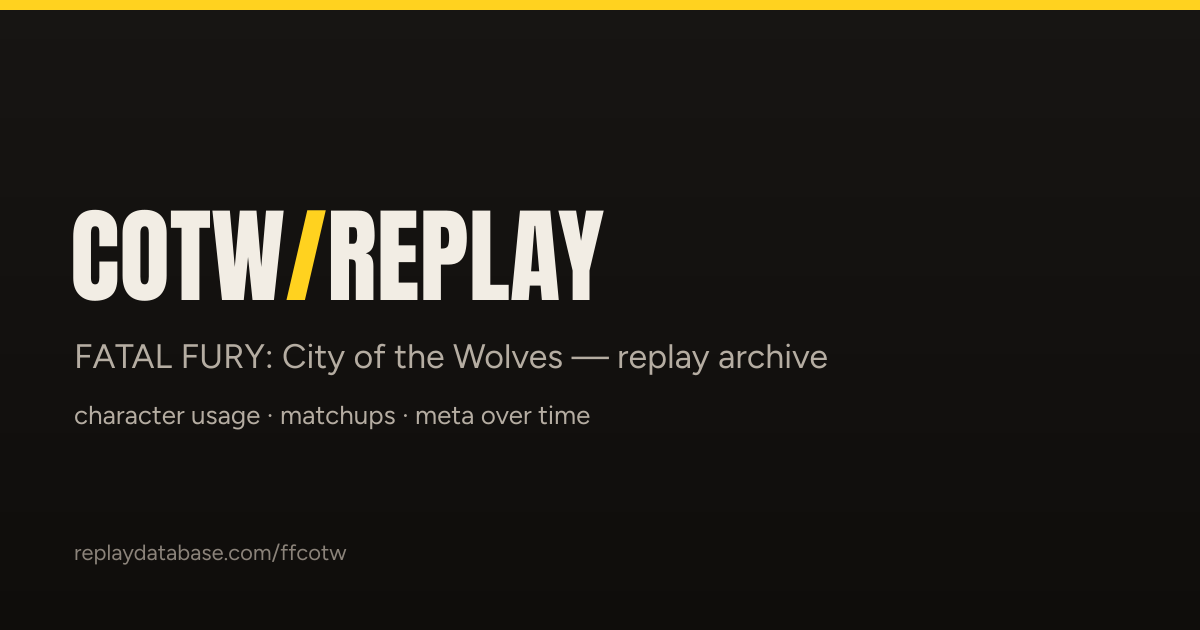
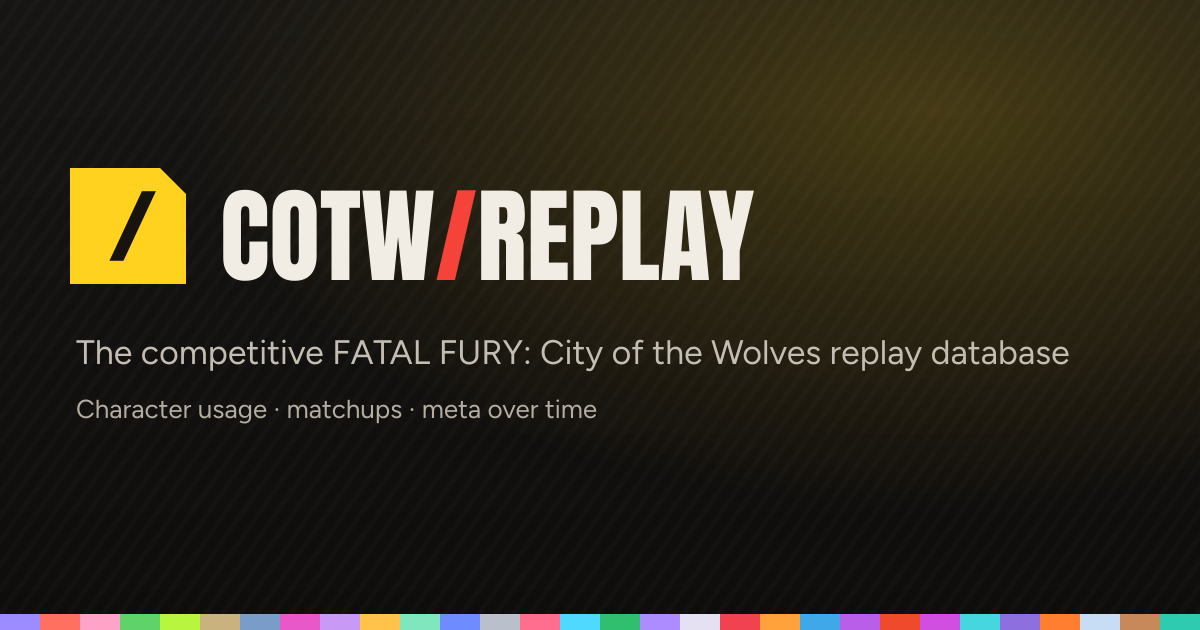
feat(art): the OG card speaks the platform's card language
The shell's selector cards are byte-copies of each game repo's og-default.png,
so this file is the front-door card as well as the social one and has to match
the set: a cut-corner badge in the primary carrying the platform slash, the
wordmark with its slash in the secondary, the two copy lines, and a footer
stripe that is THE ROSTER — one segment per fighter in that fighter's own
accent. That last part was read off the shipped cards rather than guessed:
Tōkon's stripe is 21 segments and SF6's is 30, matching their roster sizes.
Reading it from data/characters.json means the card tracks the roster instead
of going stale on the next DLC.

Rendering is now ONE PATH PER GLYPH, positioned by the font's own advance and
kern pairs, which was forced by two independent defects:

  · librsvg truncates a long d attribute mid-string, and the same path emitted
    at a non-zero x offset truncates EARLIER, at the same glyph regardless of
    coordinate precision. Neither is root-caused; both disappear when every
    path is short and starts at the origin.
  · opentype.js emits literal NaN coordinates, and NOT only for variable fonts.
    On the STATIC Figtree-Regular, 'P' and '2' each produce NaN alone, and
    'Character' produces NaN while 'C', 'Ch', 'City' and 'character' do not —
    so the fault is in multi-glyph LAYOUT, not in any one outline. Drawing
    glyphs individually removes the composition step the bug lives in.
[…]

diff --git a/scripts/og.ts b/scripts/og.ts
@@ -31,6 +31,21 @@
  * suit: it proves the outlines came from the real font (a known glyph advance
  * and a non-trivial path), so a corrupt or missing TTF still fails loudly.
  *
+ * ── IT IS ALSO THE SELECTOR CARD ──────────────────────────────────────────
+ * The shell's game cards are byte-copies of each game repo's own
+ * og-default.png (2XKO, Tekken and SF6 all are; Tōkon needed a bespoke
+ * generator only because it had no game repo at the time). So this file has to
+ * speak the platform's card language, not just be a valid image:
+ *
+ *   · a cut-corner badge in the game's PRIMARY, carrying the platform slash
+ *   · the wordmark, with the slash in the game's SECONDARY
+ *   · "The competitive <full name> replay database", then the tagline
+ *   · a footer stripe that is THE ROSTER: one segment per fighter, in roster
+ *     order, each in that fighter's own accent. Sampled from the shipped cards
+ *     to confirm — Tōkon's stripe is 21 segments and SF6's is 30, matching
+ *     their roster sizes exactly. Reading it from data/characters.json here
+ *     means the card tracks the roster instead of going stale on the next DLC.
+ *
  * Run: npm run data:og   (manual — the card changes when the brand does)
  */
 
@@ -50,102 +65,93 @@ const BG = '#0F0D0B';
 const SURFACE = '#171513';
 const PRIMARY = '#FFD21F';
 const TEXT = '#F2EDE4';
+const TEXT_DIM = '#C4BDB3';
 const MUTED = '#B5ADA2';
-const FAINT = '#8B837A';
+const SECONDARY = '#F5433A';
+const PRIMARY_CONTRAST = '#17130E';
 
-interface Chunk {
+interface Glyph {
+  /** SVG path data for ONE glyph, drawn at the origin. */
   path: string;
-  /** x offset of this chunk within the whole string, in px. */
+  /** x offset of this glyph within the string, in px. */
   dx: number;
-  /** advance width of this chunk alone, so its canvas can be cropped to it. */
-  w: number;
 }
 
 /**
- * Text → a SEQUENCE of SVG paths, each short, each drawn at the origin and
- * positioned by its measured advance.
+ * Text → ONE PATH PER GLYPH, each drawn at the origin and positioned by the
+ * font's own advance and kern pairs.
  *
- * TWO LIBRSVG LIMITS ARE BEING ROUTED AROUND HERE, and both were found by
- * looking at the rendered card rather than by any assertion on the data:
+ * THIS SHAPE IS FORCED BY TWO INDEPENDENT DEFECTS, both found by looking at the
+ * rendered card rather than by any assertion on the data:
  *
- *  · a long `d` attribute truncates mid-string. The 46-character subtitle
- *    (~14k chars of path data) renders in full; the 43-character stat line
- *    (~17k) stops after "character usage · ma".
- *  · the same path emitted at a non-zero x offset truncates EARLIER than at
- *    x=0, at the same glyph regardless of coordinate precision.
+ *  1. librsvg truncates a long `d` attribute mid-string. The 46-character
+ *     subtitle (~14k chars of path data) renders in full; the 43-character stat
+ *     line (~17k) stops after "character usage · ma". The same path emitted at
+ *     a non-zero x offset truncates EARLIER, at the same glyph regardless of
+ *     coordinate precision. Neither is root-caused; both disappear when every
+ *     path is short and starts at the origin.
  *
- * Neither is root-caused. Both disappear if every path is short and starts at
- * the origin, so that is what this does: split on spaces into chunks of at most
- * MAX_CHUNK_CHARS, draw each at (0, size), and place it with the compositor at
- * the advance width of everything before it. Advance widths come from the font,
- * so the spacing is the font's own metrics and not an approximation.
+ *  2. opentype.js emits literal `NaN` coordinates, and it is NOT only for
+ *     variable fonts. Measured on the STATIC Figtree-Regular: "P" and "2" each
+ *     produce NaN alone, and "Character" produces NaN while "C", "Ch", "City"
+ *     and "character" do not — so the fault is in multi-glyph LAYOUT, not in
+ *     any one outline. Drawing glyphs individually removes the composition step
+ *     the bug lives in.
  *
- * The failure this prevents is the one 5d is really about: a card that has
- * silently dropped half a line still looks like a deliberate design.
+ * Positioning uses getAdvanceWidth per glyph plus getKerningValue between
+ * pairs, so the spacing is the font's own metrics rather than an approximation.
+ * The NaN assertion stays and now runs per glyph, because a glyph that still
+ * fails must stop the build rather than render as a gap.
  */
-const MAX_CHUNK_CHARS = 14;
-
-function chunksOf(font: opentype.Font, text: string, size: number): Chunk[] {
-  const words = text.split(' ');
-  const groups: string[] = [];
-  let cur = '';
-  for (const w of words) {
-    const next = cur ? `${cur} ${w}` : w;
-    if (next.length > MAX_CHUNK_CHARS && cur) {
-      groups.push(cur);
-      cur = w;
-    } else {
-      cur = next;
-    }
-  }
-  if (cur) groups.push(cur);
-
-  const out: Chunk[] = [];
+function glyphsOf(font: opentype.Font, text: string, size: number): Glyph[] {
+  const scale = size / font.unitsPerEm;
+  const out: Glyph[] = [];
   let dx = 0;
-  for (const [i, g] of groups.entries()) {
-    // The chunk carries its own trailing space when it is not the last, so the
-    // advance below is the real distance to the next chunk.
-    const withSpace = i === groups.length - 1 ? g : `${g} `;
-    const d = font.getPath(g, 0, size, size).toPathData(2);
-    // ── THE GEOMETRY MUST BE FINITE, AND THIS IS CHECKED ON THE ARTIFACT ───
-    // opentype.js emits literal `NaN` coordinates for some glyphs of a
-    // VARIABLE font. Measured on Figtree[wght].ttf: the word "character"
-    // produced "Q12.22 14.33 NaN 15.78", librsvg stopped parsing at the NaN,
-    // and the word rendered as its first letter and nothing else.
-    //
-    // AN EARLIER VERSION OF THIS CHECK PROBED EACH GLYPH IN ISOLATION AT THE
-    // ORIGIN AND DID NOT FIRE — the NaN only appears in the composed,
-    // positioned path, which is the thing that actually ships. So the check
-    // reads the emitted `d` string itself. That is checklist 5k's rule
-    // ("read the current answer live", never a cached proxy for it) applied to
-    // geometry rather than to a label cache.
-    //
-    // It is also why design/fonts/ carries STATIC instances and never variable
-    // fonts: the advance width was correct and every glyph reported contours,
-    // so both of the other assertions passed while the output was broken.
-    if (d.includes('NaN') || d.includes('Infinity')) {
-      console.error(
-        [
-          `✖ non-finite path geometry for ${JSON.stringify(g)} at size ${size}.`,
-          `    ${d.slice(Math.max(0, d.indexOf('NaN') - 40), d.indexOf('NaN') + 20)}`,
-          '',
-          '  librsvg stops parsing a path at the first bad number, so this word would have',
-          '  rendered as its first glyph and nothing else — which looks like a design choice.',
-          '  Cause, every time so far: a VARIABLE font. Use a static instance.',
-        ].join('\n'),
-      );
-      process.exit(1);
+  const chars = [...text];
+  for (const [i, ch] of chars.entries()) {
+    const glyph = font.charToGlyph(ch);
+    if (ch !== ' ') {
+      const d = glyph.getPath(0, size, size).toPathData(2);
+      if (d.includes('NaN') || d.includes('Infinity')) {
+        console.error(
+          [
+            `✖ non-finite path geometry for ${JSON.stringify(ch)} at size ${size}.`,
+            `    ${d.slice(0, 90)}`,
+            '',
+            '  librsvg stops parsing a path at the first bad number, so this glyph would have',
+            '  rendered as a gap — which looks like letter-spacing rather than a failure.',
+            '  opentype.js does this for some glyphs of some fonts; try another static cut.',
+          ].join('\n'),
+        );
+        process.exit(1);
+      }
+      if (d) out.push({ path: d, dx });
     }
-    out.push({ path: d, dx, w: font.getAdvanceWidth(g, size) });
-    dx += font.getAdvanceWidth(withSpace, size);
+    dx += glyph.advanceWidth! * scale;
+    const next = chars[i + 1];
+    if (next) dx += font.getKerningValue(glyph, font.charToGlyph(next)) * scale;
   }
   return out;
+}
+
+/** Total advance of `text`, using the same metrics glyphsOf lays out with. */
+function widthOf(font: opentype.Font, text: string, size: number): number {
+  const scale = size / font.unitsPerEm;
+  const chars = [...text];
+  let w = 0;
+  for (const [i, ch] of chars.entries()) {
+    const g = font.charToGlyph(ch);
+    w += g.advanceWidth! * scale;
+    const next = chars[i + 1];
+    if (next) w += font.getKerningValue(g, font.charToGlyph(next)) * scale;
+  }
+  return w;
 }
 
 /** Parse a committed TTF and assert it can actually draw `text`. */
 function loadFont(fontFile: string, text: string, size: number): opentype.Font {
   const font = opentype.parse(readFileSync(join(FONT_DIR, fontFile)).buffer as ArrayBuffer);
-  const advance = font.getAdvanceWidth(text, size);
+  const advance = widthOf(font, text, size);
   // Per-CHARACTER, not per-string. A length floor is wrong for short text (it
   // fired on the single "/" of the wordmark, whose path is legitimately tiny);
   // what matters is that every non-space character contributed contours. A font
@@ -176,86 +182,115 @@ function loadFont(fontFile: string, text: string, size: number): opentype.Font {
 async function main(): Promise<void> {
   const sharp = (await import('sharp')).default;
 
-  const WORD = 'COTW/REPLAY';
-  const L1 = 'FATAL FURY: City of the Wolves — replay archive';
-  const L2 = 'character usage · matchups · meta over time';
-  const L3 = 'replaydatabase.com/ffcotw';
+  const WORD_A = 'COTW';
+  const WORD_B = 'REPLAY';
+  const L1 = 'The competitive FATAL FURY: City of the Wolves replay database';
+  const L2 = 'Character usage · matchups · meta over time';
 
-  const anton = loadFont('Anton-Regular.ttf', WORD, 104);
-  const figtree = loadFont('Figtree-Regular.ttf', `${L1}${L2}${L3}`, 34);
+  const anton = loadFont('Anton-Regular.ttf', `${WORD_A}/${WORD_B}`, 104);
+  const figtree = loadFont('Figtree-Regular.ttf', `${L1}${L2}`, 34);
 
-  // TIGHTLY CROPPED, one small canvas per chunk. Full-page 1200×630 layers
-  // still dropped chunks — the first word of the stat line rendered as a single
-  // dot with twelve layers in flight — and a small canvas is both the fix and
-  // obviously cheaper. Height allows for descenders; width for the chunk's own
-  // advance plus a little slack so the final glyph's right sidebearing is not
-  // clipped.
-  const layer = async (
-    d: string,
-    fill: string,
-    w: number,
-    size: number,
-    left: number,
-    top: number,
-  ) => ({
-    input: await sharp(
-      Buffer.from(
-        `<svg xmlns="http://www.w3.org/2000/svg" width="${Math.ceil(w) + 12}" height="${Math.ceil(size * 1.6)}">` +
-          `<path d="${d}" fill="${fill}"/></svg>`,
-      ),
+  // The footer stripe is the roster, in roster order.
+  const roster = JSON.parse(readFileSync(join(ROOT, 'data', 'characters.json'), 'utf8')) as {
+    id: string;
+    accent: string;
+  }[];
+  if (roster.length === 0) {
+    console.error('✖ data/characters.json is empty — the footer stripe would be blank.');
+    process.exit(1);
+  }
+  const STRIPE = 16;
+  const seg = W / roster.length;
+  const stripe = roster
+    // +0.5px of overlap so neighbouring segments never leave a hairline gap at
+    // fractional widths. Written as (seg + 0.5).toFixed(2) and not
+    // seg.toFixed(2) + 0.5, which is string concatenation and emits
+    // width="40.000.5" — an invalid length that librsvg drops, taking the whole
+    // stripe with it. It shipped invisible exactly once.
+    .map(
+      (c, i) =>
+        `<rect x="${(i * seg).toFixed(2)}" y="${H - STRIPE}" width="${(seg + 0.5).toFixed(2)}" height="${STRIPE}" fill="${c.accent}"/>`,
     )
-      .png()
-      .toBuffer(),
-    left,
-    top,
-  });
+    .join('');
 
-  const line = async (
+  // Every glyph is its own <path>, all in ONE overlay document. The paths are
+  // individually tiny, which is what the librsvg limit actually cares about.
+  const paths: string[] = [];
+  const line = (
     font: opentype.Font,
     text: string,
     size: number,
     fill: string,
     left: number,
     top: number,
-  ) =>
-    Promise.all(
-      chunksOf(font, text, size).map((c) =>
-        layer(c.path, fill, c.w, size, left + Math.round(c.dx), top),
-      ),
-    );
+  ): void => {
+    for (const g of glyphsOf(font, text, size)) {
+      paths.push(
+        `<g transform="translate(${(left + g.dx).toFixed(2)} ${top})"><path d="${g.path}" fill="${fill}"/></g>`,
+      );
+    }
+  };
 
-  // The wordmark is three chunks so the slash can take the primary colour.
-  const cotwW = anton.getAdvanceWidth('COTW', 104);
-  const slashW = anton.getAdvanceWidth('/', 104);
-  const WORD_Y = 196;
-  const layers = [
-    ...(await line(anton, 'COTW', 104, TEXT, 70, WORD_Y)),
-    ...(await line(anton, '/', 104, PRIMARY, 70 + Math.round(cotwW), WORD_Y)),
-    ...(await line(anton, 'REPLAY', 104, TEXT, 70 + Math.round(cotwW + slashW), WORD_Y)),
-    ...(await line(figtree, L1, 34, MUTED, 74, 334)),
-    ...(await line(figtree, L2, 26, MUTED, 74, 398)),
-    ...(await line(figtree, L3, 22, FAINT, 74, 538)),
-  ];
+  const BADGE = 116;
+  const BX = 70;
+  const BY = 168;
+  const wordLeft = BX + BADGE + 34;
+  const aW = widthOf(anton, `${WORD_A}`, 104);
+  const slashW = widthOf(anton, '/', 104);
+  const WORD_Y = 176;
 
+  line(anton, WORD_A, 104, TEXT, wordLeft, WORD_Y);
+  line(anton, '/', 104, SECONDARY, wordLeft + aW, WORD_Y);
+  line(anton, WORD_B, 104, TEXT, wordLeft + aW + slashW, WORD_Y);
+  line(figtree, L1, 34, TEXT_DIM, BX + 6, 330);
+  line(figtree, L2, 26, MUTED, BX + 6, 392);
+
+  // The chassis: diagonal texture, a corner wash in the primary, the badge, and
+  // the roster stripe. All background, so it is one SVG — the path-length limit
+  // that forces the type into chunks does not apply to rects and lines.
   const base = Buffer.from(
     `<svg xmlns="http://www.w3.org/2000/svg" width="${W}" height="${H}">
       <defs>
-        <linearGradient id="g" x1="0" y1="0" x2="0" y2="1">
+        <linearGradient id="bg" x1="0" y1="0" x2="0" y2="1">
           <stop offset="0%" stop-color="${SURFACE}"/>
           <stop offset="100%" stop-color="${BG}"/>
         </linearGradient>
+        <radialGradient id="wash" cx="78%" cy="18%" r="62%">
+          <stop offset="0%" stop-color="${PRIMARY}" stop-opacity="0.20"/>
+          <stop offset="100%" stop-color="${PRIMARY}" stop-opacity="0"/>
+        </radialGradient>
+        <pattern id="diag" width="14" height="14" patternUnits="userSpaceOnUse" patternTransform="rotate(35)">
+          <rect width="14" height="14" fill="none"/>
+          <rect width="5" height="14" fill="#FFFFFF" fill-opacity="0.018"/>
+        </pattern>
       </defs>
-      <rect width="100%" height="100%" fill="url(#g)"/>
-      <rect x="0" y="0" width="${W}" height="10" fill="${PRIMARY}"/>
+      <rect width="100%" height="100%" fill="url(#bg)"/>
+      <rect width="100%" height="100%" fill="url(#diag)"/>
+      <rect width="100%" height="100%" fill="url(#wash)"/>
+      <!-- the platform badge: a cut-corner square in the game's primary,
+           carrying the same slash the wordmark uses -->
+      <path d="M${BX} ${BY} H${BX + BADGE - 26} L${BX + BADGE} ${BY + 26} V${BY + BADGE} H${BX} Z" fill="${PRIMARY}"/>
+      <path d="M${BX + BADGE * 0.62} ${BY + BADGE * 0.2} L${BX + BADGE * 0.34} ${BY + BADGE * 0.8} l14 0 L${BX + BADGE * 0.62 + 14} ${BY + BADGE * 0.2} Z" fill="${PRIMARY_CONTRAST}"/>
+      ${stripe}
     </svg>`,
+  );
+
+  const overlay = Buffer.from(
+    `<svg xmlns="http://www.w3.org/2000/svg" width="${W}" height="${H}">${paths.join('')}</svg>`,
   );
 
   const out = join(ROOT, 'public', 'og-default.png');
   await mkdir(dirname(out), { recursive: true });
-  await writeFile(out, await sharp(base).composite(layers).png().toBuffer());
+  await writeFile(
+    out,
+    await sharp(base)
+      .composite([{ input: await sharp(overlay).png().toBuffer(), top: 0, left: 0 }])
+      .png()
+      .toBuffer(),
+  );
   console.log(
-    `✓ public/og-default.png — ${W}×${H}, ${layers.length} outline layer(s) from committed OFL ` +
-      `TTFs; no font resolution at raster time, so there is no fallback to be plausible about`,
+    `✓ public/og-default.png — ${W}×${H}, ${paths.length} glyph outline(s) from committed OFL ` +
+      `TTFs, ${roster.length}-segment roster stripe; no font resolution at raster time`,
   );
 }
 
